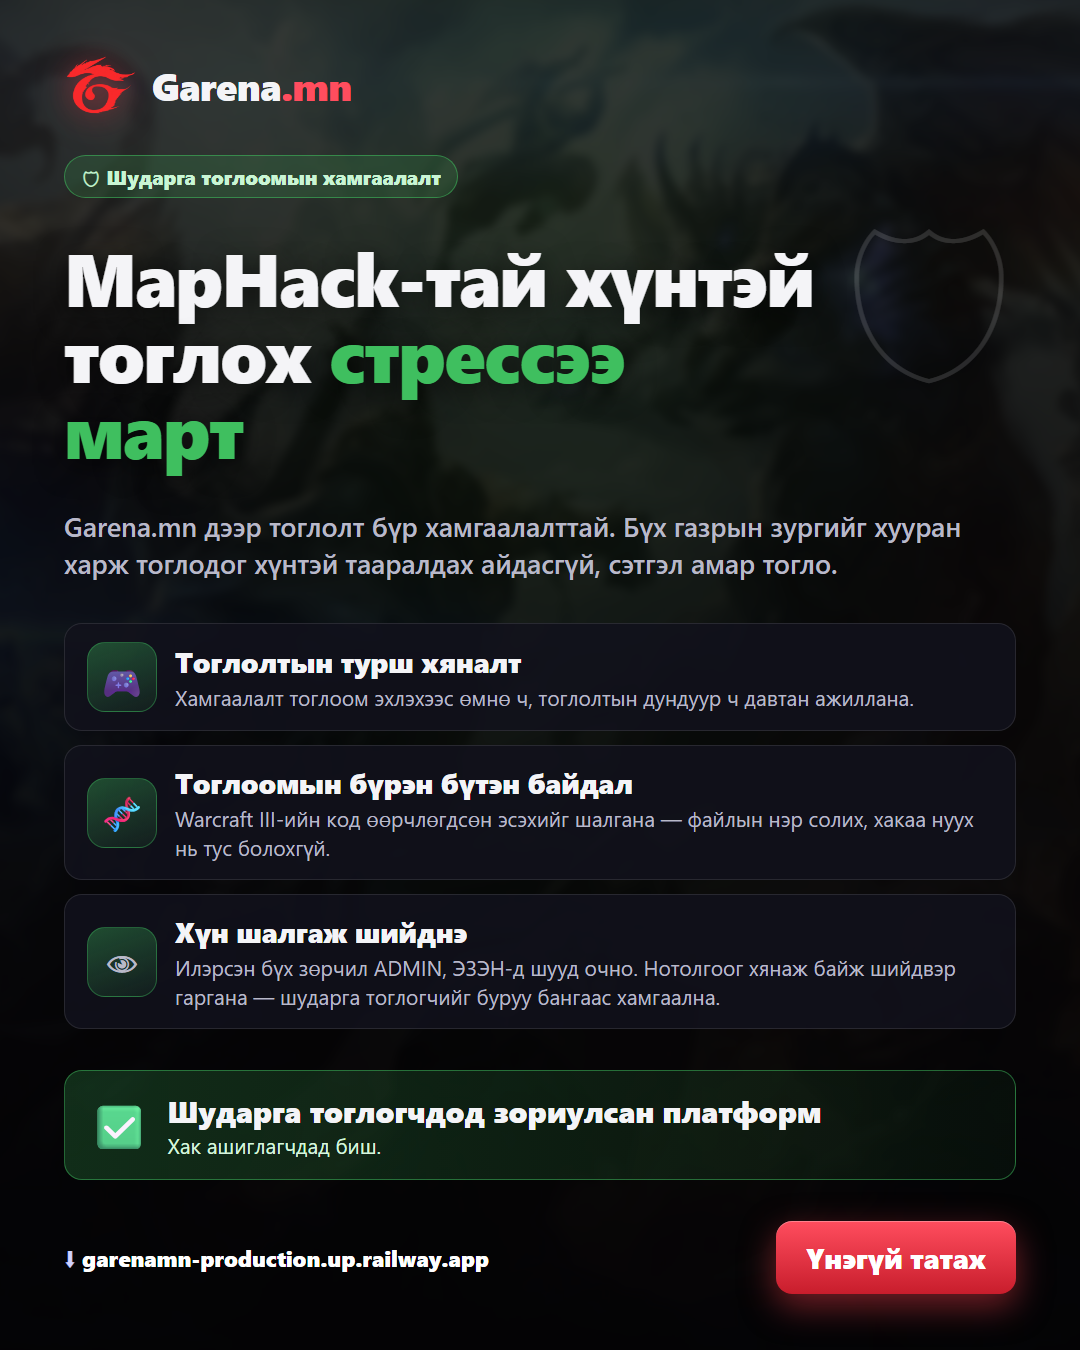
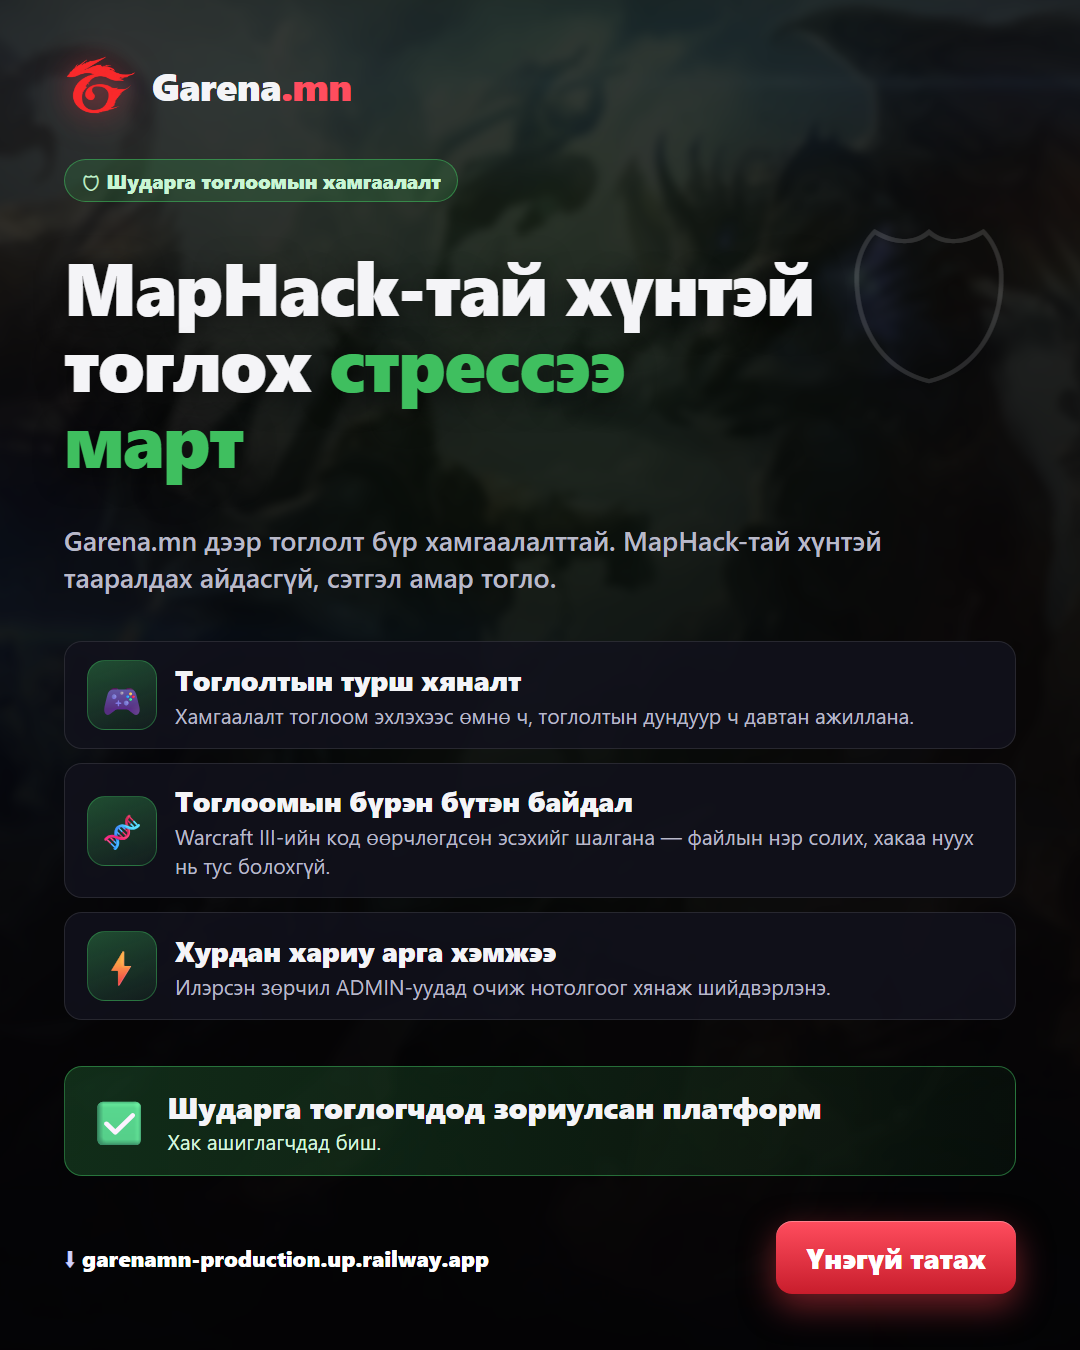
marketing: MapHack постерийн текст засвар (Хурдан хариу арга хэмжээ, ЭЗЭН хасав)

diff --git a/marketing/facebook-2026-10/src/anticheat.html b/marketing/facebook-2026-10/src/anticheat.html
@@ -58,11 +58,11 @@
   <div class="z brand"><img src="logo.png" alt=""><b>Garena<span>.mn</span></b></div>
   <div class="z"><span class="tag g">🛡 Шударга тоглоомын хамгаалалт</span></div>
   <h1 class="z">MapHack-тай хүнтэй<br>тоглох <em>стрессээ</em><br><em>март</em></h1>
-  <p class="z sub">Garena.mn дээр тоглолт бүр хамгаалалттай. Бүх газрын зургийг хууран харж тоглодог хүнтэй тааралдах айдасгүй, сэтгэл амар тогло.</p>
+  <p class="z sub">Garena.mn дээр тоглолт бүр хамгаалалттай. MapHack-тай хүнтэй тааралдах айдасгүй, сэтгэл амар тогло.</p>
   <div class="z layers">
     <div class="layer"><span class="ic">🎮</span><div><b>Тоглолтын турш хяналт</b><span>Хамгаалалт тоглоом эхлэхээс өмнө ч, тоглолтын дундуур ч давтан ажиллана.</span></div></div>
     <div class="layer"><span class="ic">🧬</span><div><b>Тоглоомын бүрэн бүтэн байдал</b><span>Warcraft III-ийн код өөрчлөгдсөн эсэхийг шалгана — файлын нэр солих, хакаа нуух нь тус болохгүй.</span></div></div>
-    <div class="layer"><span class="ic">👁</span><div><b>Хүн шалгаж шийднэ</b><span>Илэрсэн бүх зөрчил ADMIN, ЭЗЭН-д шууд очно. Нотолгоог хянаж байж шийдвэр гаргана — шударга тоглогчийг буруу бангаас хамгаална.</span></div></div>
+    <div class="layer"><span class="ic">⚡</span><div><b>Хурдан хариу арга хэмжээ</b><span>Илэрсэн зөрчил ADMIN-уудад очиж нотолгоог хянаж шийдвэрлэнэ.</span></div></div>
   </div>
   <div class="z bar"><span style="font-size:44px">✅</span><div><b>Шударга тоглогчдод зориулсан платформ</b><br><span>Хак ашиглагчдад биш.</span></div></div>
   <div class="z foot">

diff --git a/marketing/facebook-2026-10/maphack-post.md b/marketing/facebook-2026-10/maphack-post.md
@@ -15,11 +15,11 @@
 
 🛡 **MapHack-тай хүнтэй тоглох стрессээ март — Garena.mn**
 
-Бүх газрын зургийг хууран харж байгаа хүнтэй тоглоод, хожлоо булаалгаж, уураа хүрсэн үе танд байсан уу? Garena.mn дээр ийм зүйл давтагдахгүйн тулд бид шударга тоглоомын хамгаалалтыг платформын цөмд суулгасан.
+MapHack-тай хүнтэй тоглоод, хожлоо булаалгаж, уураа хүрсэн үе танд байсан уу? Garena.mn дээр ийм зүйл давтагдахгүйн тулд бид шударга тоглоомын хамгаалалтыг платформын цөмд суулгасан.
 
 🎮 **Тоглолтын турш хяналт** — хамгаалалт тоглоом эхлэхээс өмнө ч, тоглолтын дундуур ч давтан ажиллана.
 🧬 **Тоглоомын бүрэн бүтэн байдал** — Warcraft III-ийн код өөрчлөгдсөн эсэхийг шалгана. Файлын нэр солих, хакаа нуух нь тус болохгүй.
-👁 **Хүн шалгаж шийднэ** — илэрсэн бүх зөрчил ADMIN болон ЭЗЭН-д шууд очно. Нотолгоог хянаж байж шийдвэр гаргана, шударга тоглогчийг буруу бангаас хамгаална.
+⚡ **Хурдан хариу арга хэмжээ** — илэрсэн зөрчил ADMIN-уудад очиж нотолгоог хянаж шийдвэрлэнэ.
 🤝 **Бан зөвхөн тухайн account-д** — интернет кафед хамт тоглож байсан бусад хүн хохирохгүй.
 
 ✅ Garena.mn бол шударга тоглогчдод зориулсан платформ. Хак ашиглагчдад биш.
